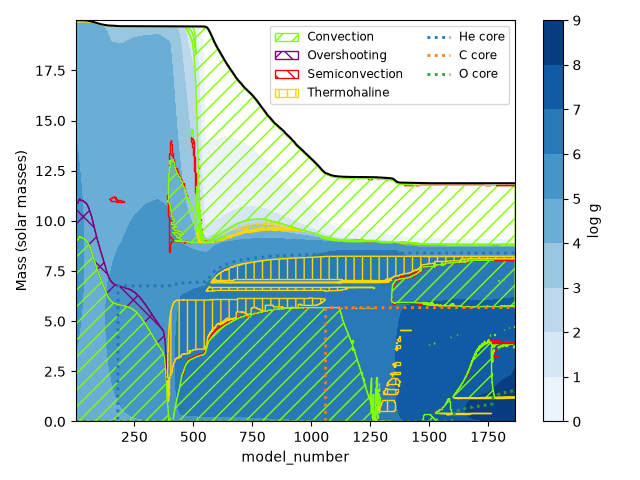
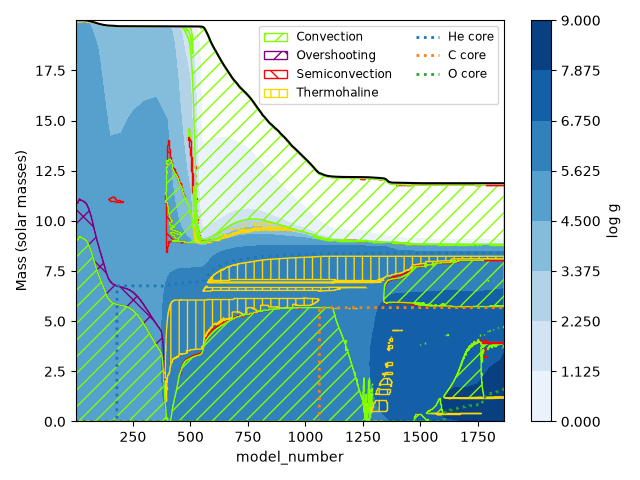
add sensible default level for eps_nuc (#25)

diff --git a/mkipp2/mkipp.py b/mkipp2/mkipp.py
@@ -294,7 +294,8 @@ def kipp_plot(kipp_args, *,
         Add axis labels and a colorbar.  Default is True.
     levels : array_like, optional
         Explicit, increasing contour levels. If None or empty, generate
-        levels from the extracted data.
+        levels from the extracted data.  For some fields, like "eps_nuc",
+        we clip the data to show only values > 1.
     level_style : str, optional
         If ``levels`` is not provided, then we can compute the levels
         as "log" (evenly spaced levels in already-logarithmic data), "linear", or
@@ -388,7 +389,11 @@ def kipp_plot(kipp_args, *,
                 finite = xyz_data.Z[np.isfinite(xyz_data.Z)]
                 if finite.size == 0:
                     raise ValueError("no finite profile values available for contour levels")
-                levels = get_levels_log(finite.min(), finite.max(), num_levels)
+                lmin = finite.min()
+                # overrides for some fields here
+                if kipp_args.identifier == "eps_nuc":
+                    lmin = 0.0
+                levels = get_levels_log(lmin, finite.max(), num_levels)
             elif level_style == "linear":
                 levels = get_levels_linear(np.nanmin(xyz_data.Z[:, :]),
                                            np.nanmax(xyz_data.Z[:, :]),

diff --git a/example/example.py b/example/example.py
@@ -145,10 +145,13 @@ ax3 = fig.add_subplot(spec[0, 2])
 ax4 = fig.add_subplot(spec[0, 3])
 
 kipp_args = mkipp2.KippArgs(xaxis="star_age")
-mkipp2.kipp_plot(kipp_args, axis=ax1, save_file=False, decorate_plot=False)
-mkipp2.kipp_plot(kipp_args, axis=ax2, save_file=False, decorate_plot=False,
+mkipp2.kipp_plot(kipp_args, axis=ax1, num_levels=10,
+                 save_file=False, decorate_plot=False)
+mkipp2.kipp_plot(kipp_args, axis=ax2, num_levels=10,
+                 save_file=False, decorate_plot=False,
                  show_mixing_legend=False, show_core_mass_legend=False)
-kipp_plot = mkipp2.kipp_plot(kipp_args, axis=ax3, save_file=False, decorate_plot=False,
+kipp_plot = mkipp2.kipp_plot(kipp_args, axis=ax3, num_levels=10,
+                             save_file=False, decorate_plot=False,
                              show_mixing_legend=False, show_core_mass_legend=False)
 cbar = fig.colorbar(kipp_plot.contour_plot, cax=ax4)
 #cbar.ax.set_yticklabels(['0', '','2','','4','','6','','8',''])
